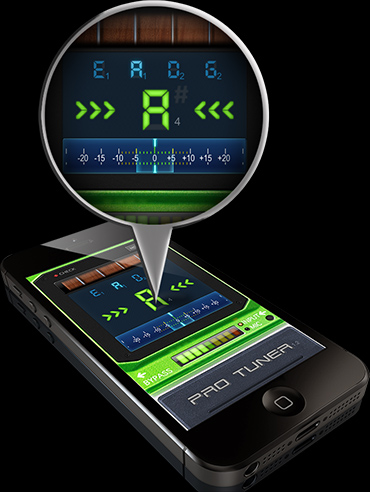
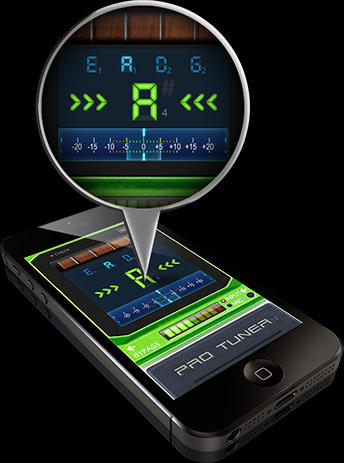
fix pro tuner picture

diff --git a/assets/styles/pro-tuner.css b/assets/styles/pro-tuner.css
@@ -106,8 +106,8 @@
         top: 0px;
         left: 120px;
         background: url(../images/pt-feature-1.jpg) 0 0 no-repeat;
-        width: 370px;
-        height: 492px;
+        width: 344px;
+        height: 463px;
     }
 
     .section-1 .intro {
